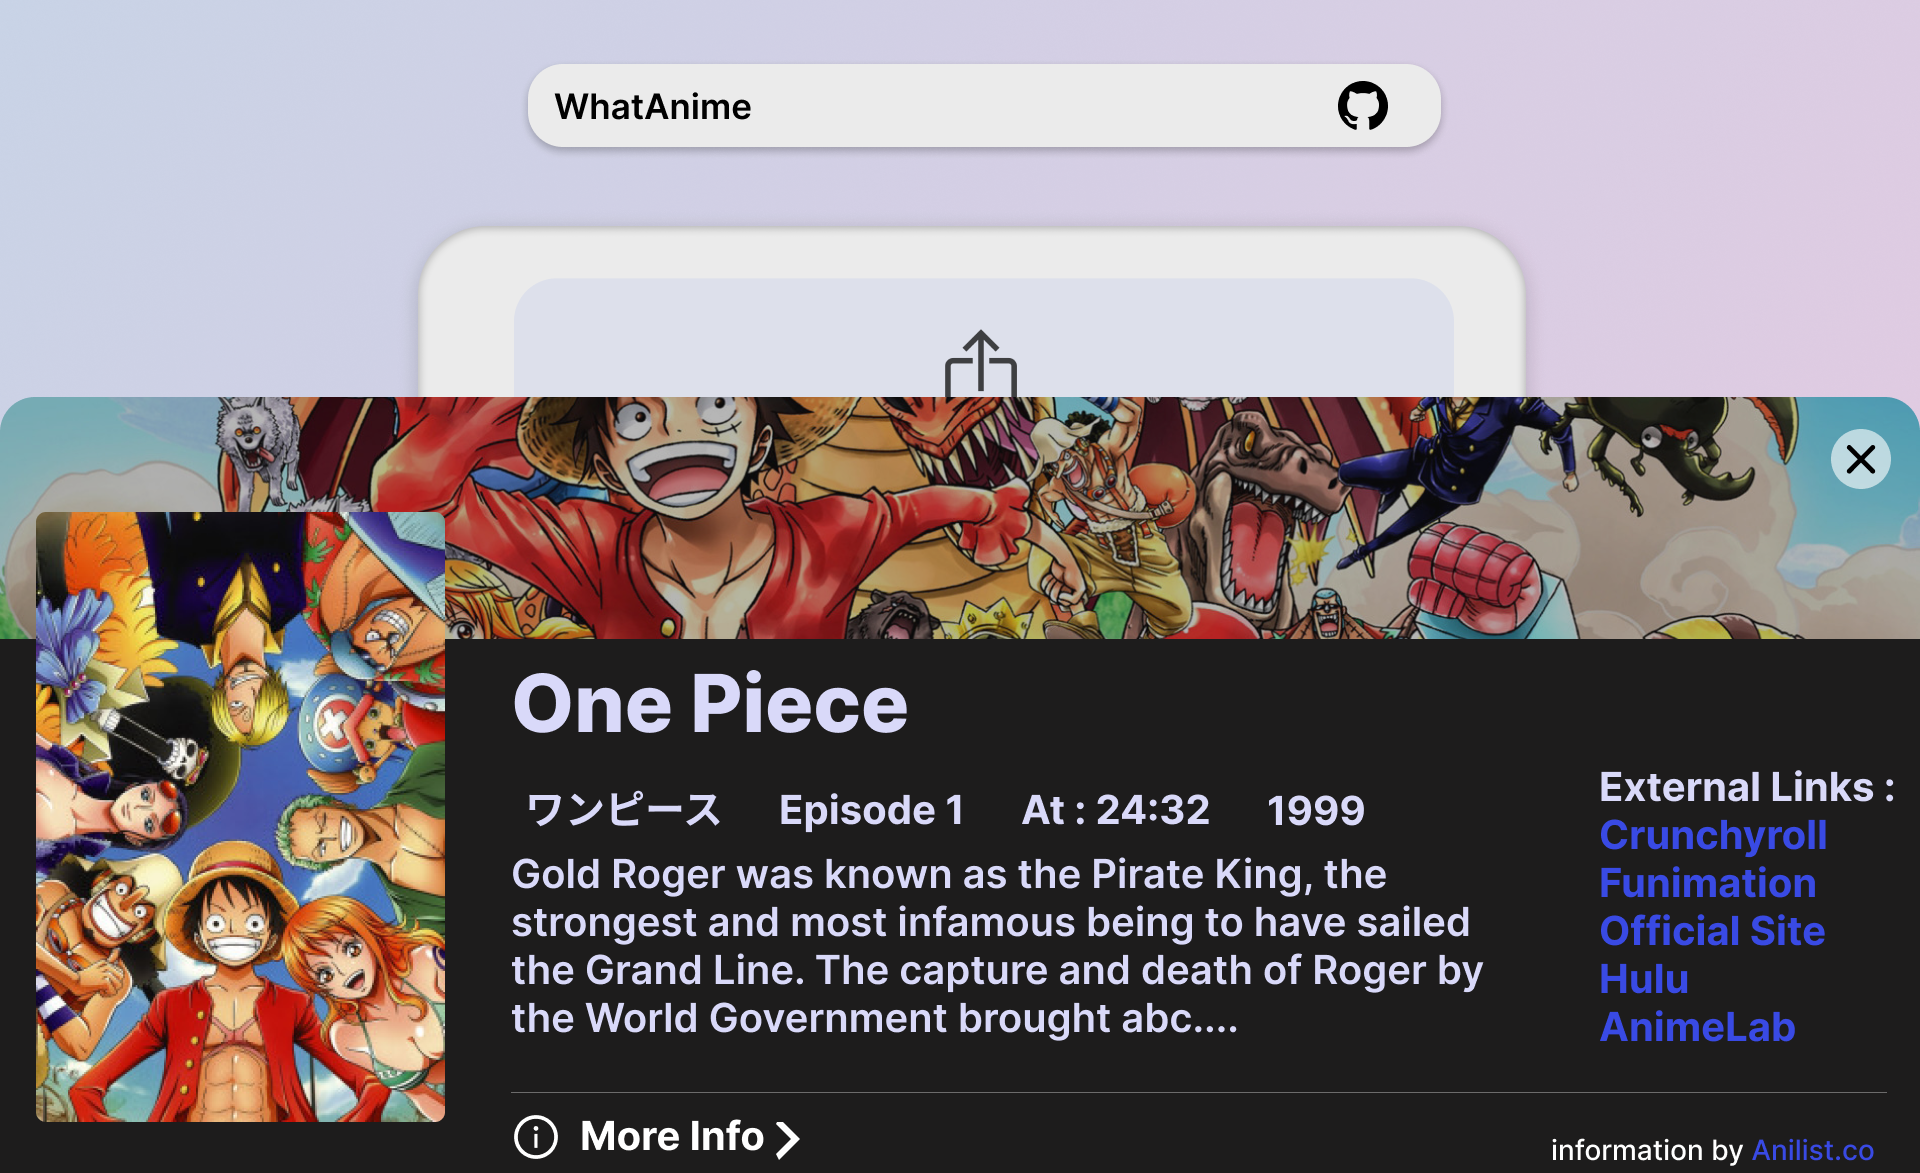
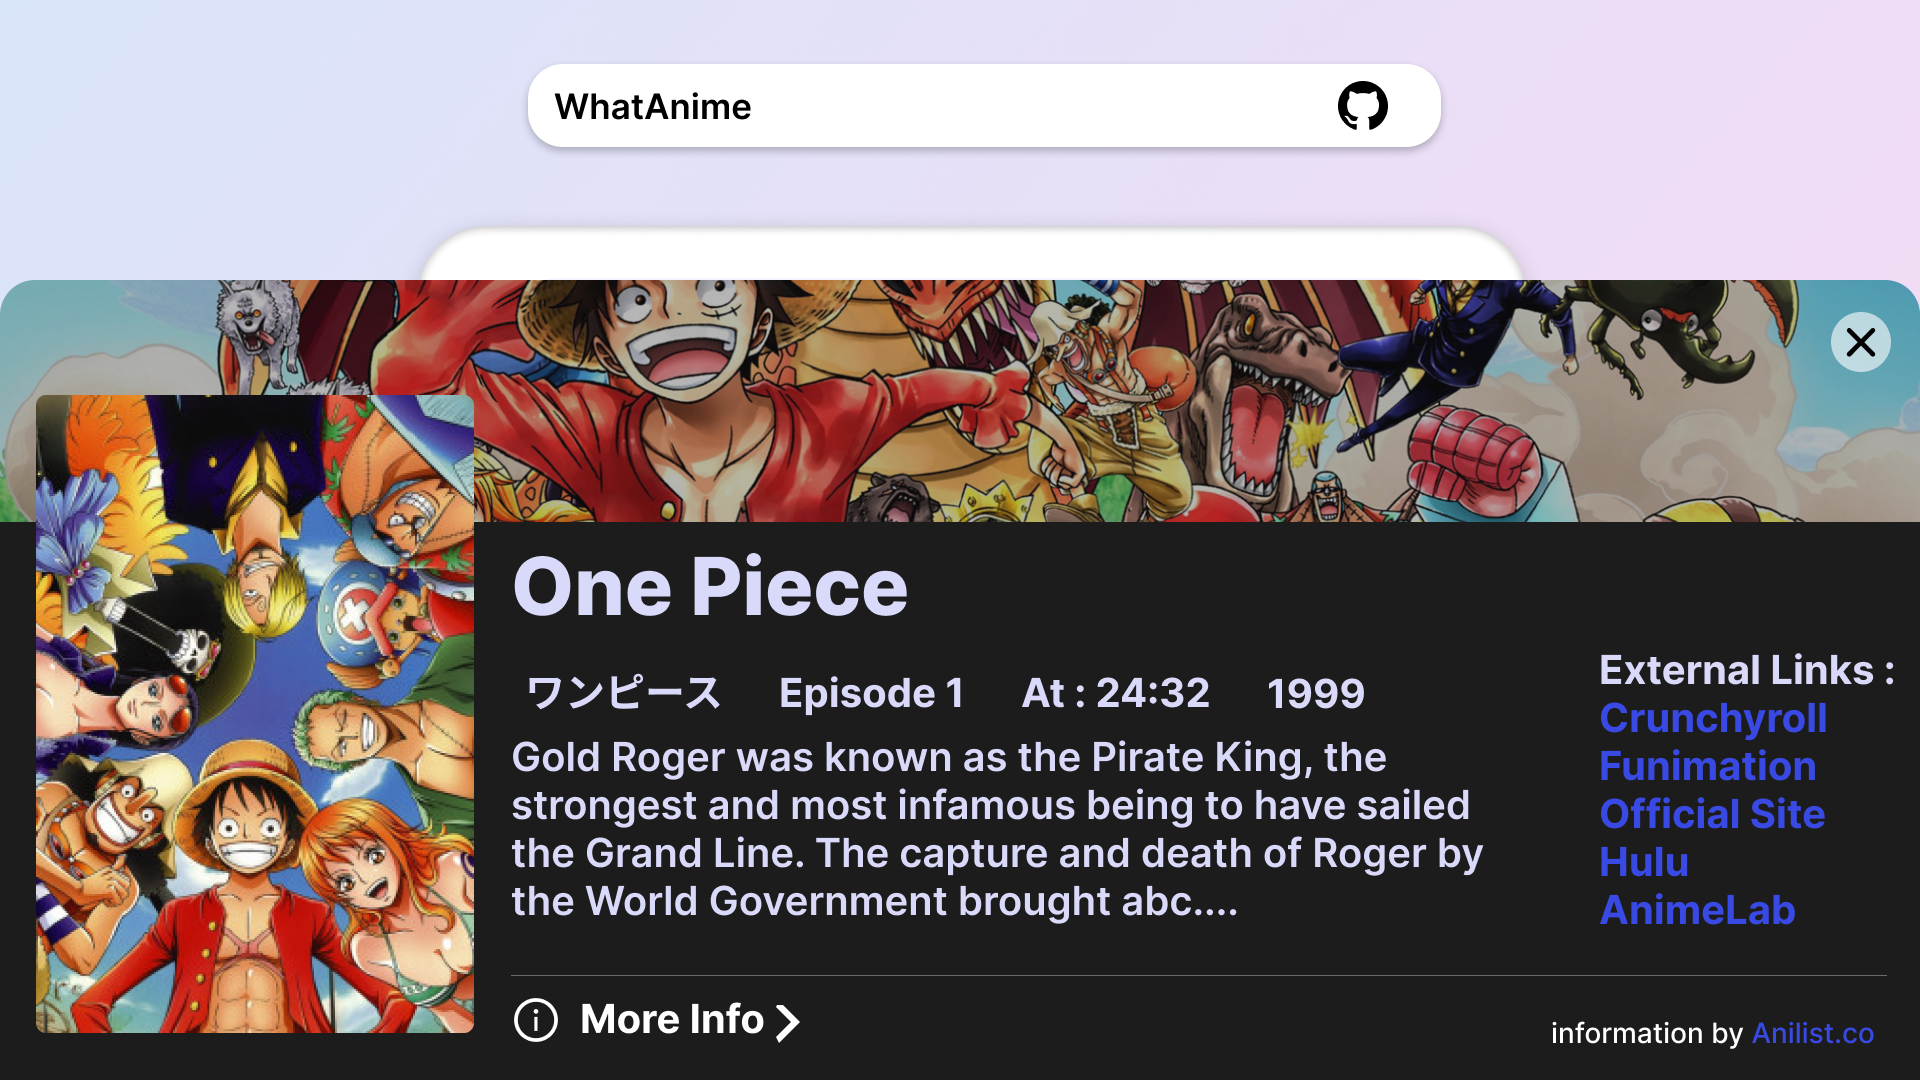
🔨 Work component designed for mobile

diff --git a/styles/components/workdetails.scss b/styles/components/workdetails.scss
@@ -1,0 +1,58 @@
+/** @format */
+.Work-info {
+	border-bottom: 1px solid $text;
+	margin-top: 4rem;
+	padding: 0 0 2rem 0;
+	position: relative;
+	h3 {
+		overflow: hidden;
+		text-align: center;
+		font-size: 0.9rem;
+		margin-bottom: 1rem;
+	}
+
+	h3:before,
+	h3:after {
+		content: '';
+		background-color: $text;
+		display: inline-block;
+		height: 0.5px;
+		position: relative;
+		vertical-align: middle;
+		width: 50%;
+	}
+	h3:before {
+		right: 0.5em;
+		margin-left: -50%;
+	}
+	h3:after {
+		left: 0.5em;
+		margin-right: -50%;
+	}
+}
+.work-image {
+	border: 1px solid $text;
+	position: relative;
+	aspect-ratio: 16/9;
+}
+
+.work-details {
+	margin: auto;
+	h2 {
+		margin: 1rem 0 0 0;
+		font-size: 2rem;
+	}
+
+	p {
+		font-size: 0.8rem;
+		margin: 1rem 0;
+	}
+}
+
+.Seework {
+	border: 1px solid $text;
+	margin: 0.5rem 0;
+	padding: 0.5rem 2rem;
+	background: $bg;
+	color: $text;
+}

diff --git a/src/components/workdetails.js b/src/components/workdetails.js
@@ -2,12 +2,15 @@
 
 import React from 'react';
 import Image from 'next/image';
+import SeeWork from './Workbtn';
 import WhatstheSauce from '../../public/wts.png';
 
 const workdetails = () => {
 	return (
 		<>
 			<div className="Work-info">
+				<h3>Personal Project</h3>
+				<span></span>
 				<div className="work-image">
 					<Image src={WhatstheSauce} layout="fill" objectFit="cover" />
 				</div>
@@ -17,9 +20,8 @@ const workdetails = () => {
 						An anime search engine that fetches anime details based on image provided
 					</p>
 					<p className="work-stack">#Reactjs #Styledcomponents #graphql</p>
-					<a href="/about">see work</a>
+					<SeeWork />
 				</div>
-				details
 			</div>
 		</>
 	);

diff --git a/styles/globals.scss b/styles/globals.scss
@@ -48,6 +48,11 @@ img {
 	max-width: 100%;
 	height: auto;
 }
+button {
+	border: none;
+	outline: none;
+	display: inline-block;
+}
 
 a {
 	color: inherit;
@@ -60,6 +65,14 @@ p {
 	cursor: text;
 }
 
+h1,
+h2,
+h3,
+h4,
+h5,
+h6 {
+	font-weight: $regular;
+}
 .noise {
 	height: 100%;
 	width: 100%;

diff --git a/src/components/Workbtn.js b/src/components/Workbtn.js
@@ -1,0 +1,14 @@
+/** @format */
+
+import React from 'react';
+
+const Workbtn = () => {
+	return (
+		<button className="Seework">
+			<a href="https://google.com" target="_blank">
+				see work
+			</a>
+		</button>
+	);
+};
+export default Workbtn;

diff --git a/styles/main.scss b/styles/main.scss
@@ -7,3 +7,4 @@
 @import 'pages/work.scss';
 @import 'components/social.scss';
 @import 'components/footer.scss';
+@import 'components/workdetails.scss';

diff --git a/styles/pages/work.scss b/styles/pages/work.scss
@@ -17,9 +17,3 @@
 .work-section {
 	@include maintext;
 }
-
-.work-image {
-	position: relative;
-	height: 190px;
-	width: 306px;
-}
